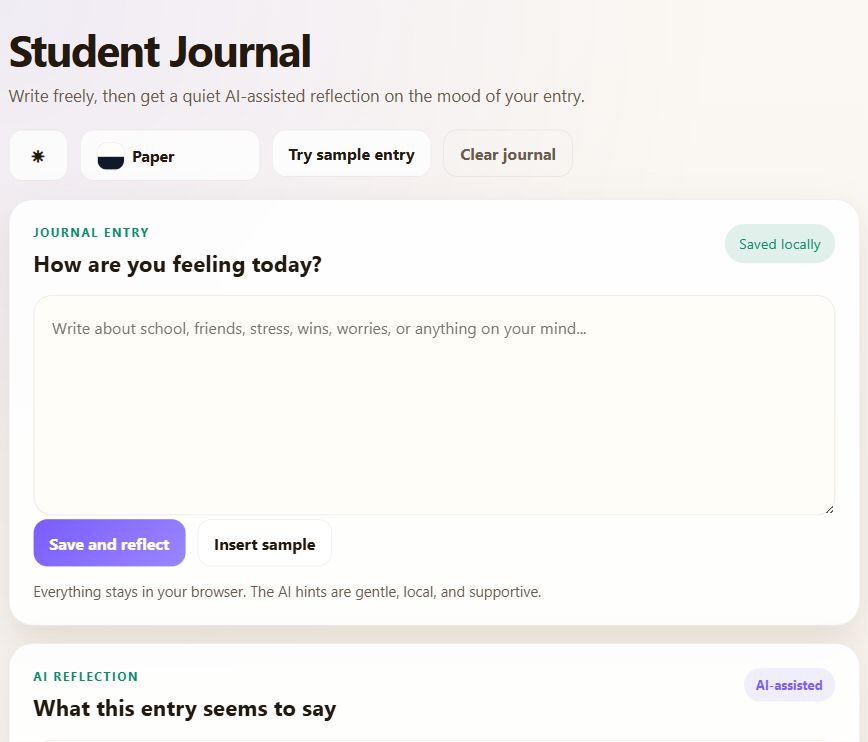
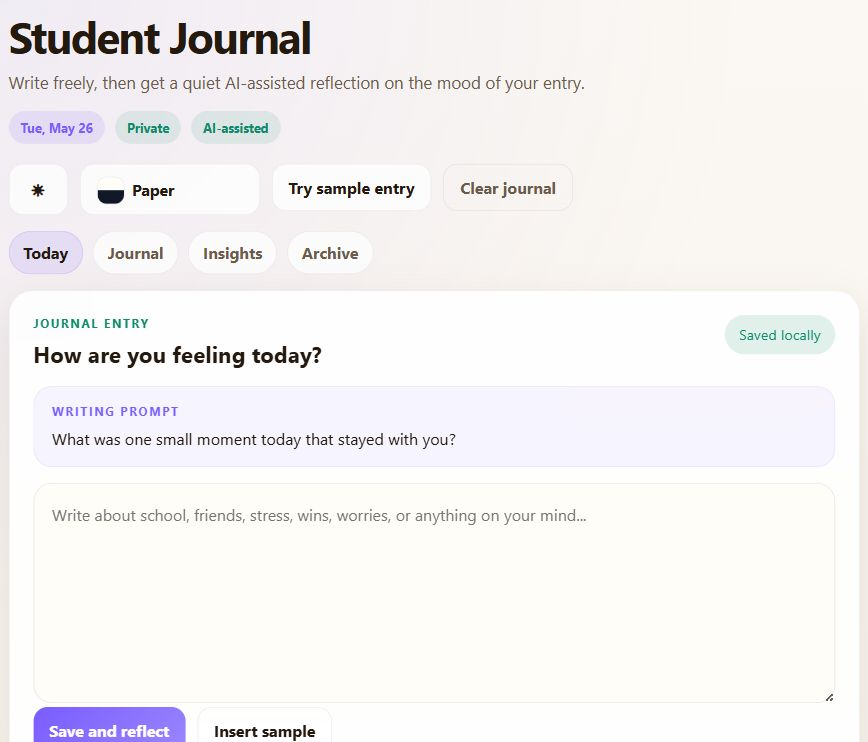
Refine journal app inspired layout

diff --git a/styles.css b/styles.css
@@ -63,11 +63,34 @@ body {
   justify-content: space-between;
   gap: 20px;
   align-items: flex-start;
-  margin-bottom: 18px;
+  margin-bottom: 16px;
 }
 
 .brand-block {
   max-width: 760px;
+}
+
+.header-meta {
+  display: flex;
+  gap: 10px;
+  flex-wrap: wrap;
+  margin-top: 14px;
+}
+
+.meta-pill {
+  display: inline-flex;
+  align-items: center;
+  padding: 8px 12px;
+  border-radius: 999px;
+  background: rgba(122, 92, 255, 0.12);
+  color: var(--accent);
+  font-size: 0.8rem;
+  font-weight: 700;
+}
+
+.meta-pill.subtle {
+  background: rgba(15, 139, 107, 0.1);
+  color: var(--accent-2);
 }
 
 .eyebrow,
@@ -114,12 +137,49 @@ h1 {
   justify-content: flex-end;
 }
 
+.app-nav {
+  width: var(--page-width);
+  margin: 0 auto 16px;
+  display: flex;
+  gap: 10px;
+  flex-wrap: wrap;
+}
+
+.nav-pill {
+  background: rgba(255, 255, 255, 0.7);
+  color: var(--muted);
+  border: 1px solid var(--panel-border);
+  padding: 10px 14px;
+  border-radius: 999px;
+}
+
+.nav-pill.active {
+  color: var(--text);
+  background: rgba(122, 92, 255, 0.12);
+  border-color: rgba(122, 92, 255, 0.16);
+}
+
 .layout {
   display: grid;
   gap: 18px;
-  grid-template-columns: minmax(0, 920px);
+  grid-template-columns: minmax(0, 780px) minmax(280px, 320px);
   justify-content: center;
   align-items: start;
+}
+
+.composer-panel {
+  grid-column: 1;
+}
+
+.feedback-panel {
+  grid-column: 2;
+  grid-row: 1 / span 2;
+  position: sticky;
+  top: 24px;
+}
+
+.dashboard-panel {
+  grid-column: 1;
 }
 
 .panel {
@@ -147,6 +207,30 @@ h1 {
 .panel-head h2 {
   margin-bottom: 0;
   font-size: 1.4rem;
+}
+
+.prompt-card {
+  margin-bottom: 16px;
+  padding: 16px 18px;
+  border-radius: 18px;
+  background: rgba(122, 92, 255, 0.06);
+  border: 1px solid rgba(122, 92, 255, 0.1);
+}
+
+.prompt-label {
+  margin-bottom: 6px;
+  color: var(--accent);
+  font-size: 0.74rem;
+  letter-spacing: 0.14em;
+  text-transform: uppercase;
+  font-weight: 700;
+}
+
+.prompt-text {
+  margin-bottom: 0;
+  font-size: 1rem;
+  line-height: 1.55;
+  color: var(--text);
 }
 
 .status-pill {
@@ -361,8 +445,29 @@ button:active {
 }
 
 .feedback-grid {
-  grid-template-columns: repeat(3, minmax(0, 1fr));
+  grid-template-columns: 1fr;
   margin-bottom: 16px;
+}
+
+.feedback-grid .metric-card {
+  display: grid;
+  grid-template-columns: auto 1fr;
+  gap: 10px 14px;
+  align-items: center;
+}
+
+.feedback-grid .metric-card span {
+  grid-column: 1 / -1;
+  margin-bottom: 0;
+}
+
+.feedback-grid .metric-card strong {
+  grid-column: 1;
+  margin-bottom: 0;
+}
+
+.feedback-grid .metric-card small {
+  grid-column: 2;
 }
 
 .metric-card,
@@ -432,7 +537,7 @@ button:active {
 }
 
 .dashboard-grid {
-  grid-template-columns: 1.2fr 1.2fr;
+  grid-template-columns: 1fr;
 }
 
 .chart-card canvas {
@@ -518,8 +623,20 @@ button:active {
     flex-direction: column;
   }
 
+  .app-nav {
+    width: var(--page-width);
+  }
+
   .layout {
     grid-template-columns: 1fr;
+  }
+
+  .composer-panel,
+  .feedback-panel,
+  .dashboard-panel {
+    grid-column: auto;
+    grid-row: auto;
+    position: static;
   }
 
   .feedback-grid,

diff --git a/index.html b/index.html
@@ -11,6 +11,11 @@
     <div class="brand-block">
       <h1>Student Journal</h1>
       <p class="subtitle">Write freely, then get a quiet AI-assisted reflection on the mood of your entry.</p>
+      <div class="header-meta">
+        <span class="meta-pill" id="todayLabel">Today</span>
+        <span class="meta-pill subtle">Private</span>
+        <span class="meta-pill subtle">AI-assisted</span>
+      </div>
     </div>
     <div class="topbar-actions">
       <button id="modeToggleBtn" class="mode-toggle secondary-btn" type="button" aria-pressed="false" aria-label="Toggle appearance">
@@ -33,6 +38,13 @@
     </div>
   </header>
 
+  <nav class="app-nav" aria-label="Journal sections">
+    <button class="nav-pill active" type="button">Today</button>
+    <button class="nav-pill" type="button">Journal</button>
+    <button class="nav-pill" type="button">Insights</button>
+    <button class="nav-pill" type="button">Archive</button>
+  </nav>
+
   <main class="layout">
     <section class="panel composer-panel">
       <div class="panel-head">
@@ -41,6 +53,11 @@
           <h2>How are you feeling today?</h2>
         </div>
         <span class="status-pill" id="storageStatus">Saved locally</span>
+      </div>
+
+      <div class="prompt-card">
+        <p class="prompt-label">Writing prompt</p>
+        <p class="prompt-text">What was one small moment today that stayed with you?</p>
       </div>
 
       <label class="sr-only" for="journalEntry">Journal entry</label>

diff --git a/script.js b/script.js
@@ -548,6 +548,7 @@ const els = {
   emotionChart: document.getElementById("emotionChart"),
   storageStatus: document.getElementById("storageStatus"),
   entryTemplate: document.getElementById("entryTemplate"),
+  todayLabel: document.getElementById("todayLabel"),
   modeToggleBtn: document.getElementById("modeToggleBtn"),
   modeIcon: document.getElementById("modeIcon"),
   themeMenuBtn: document.getElementById("themeMenuBtn"),
@@ -610,6 +611,15 @@ function applyThemeState() {
   els.currentThemeLabel.textContent = theme.label;
   els.themeButtonSwatch.style.setProperty("--theme-light-surface", theme.light.surfaceStrong);
   els.themeButtonSwatch.style.setProperty("--theme-dark-surface", theme.dark.surfaceStrong);
+}
+
+function updateTodayLabel() {
+  if (!els.todayLabel) return;
+  els.todayLabel.textContent = new Intl.DateTimeFormat(undefined, {
+    weekday: "short",
+    month: "short",
+    day: "numeric",
+  }).format(new Date());
 }
 
 function toKebabCase(value) {
@@ -1189,5 +1199,6 @@ window.addEventListener("resize", () => renderDashboard());
 window.addEventListener("DOMContentLoaded", () => renderApp());
 
 applyThemeState();
+updateTodayLabel();
 renderThemeMenu();
 renderApp();